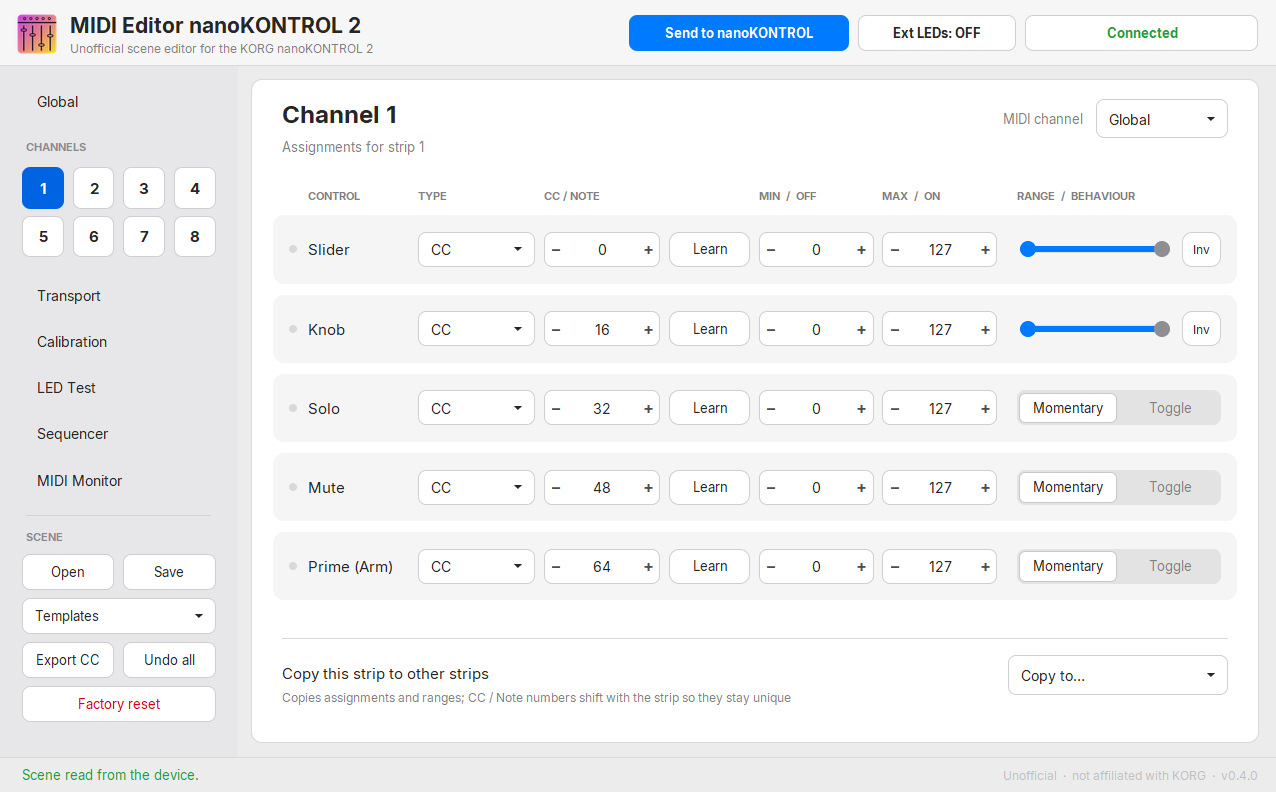
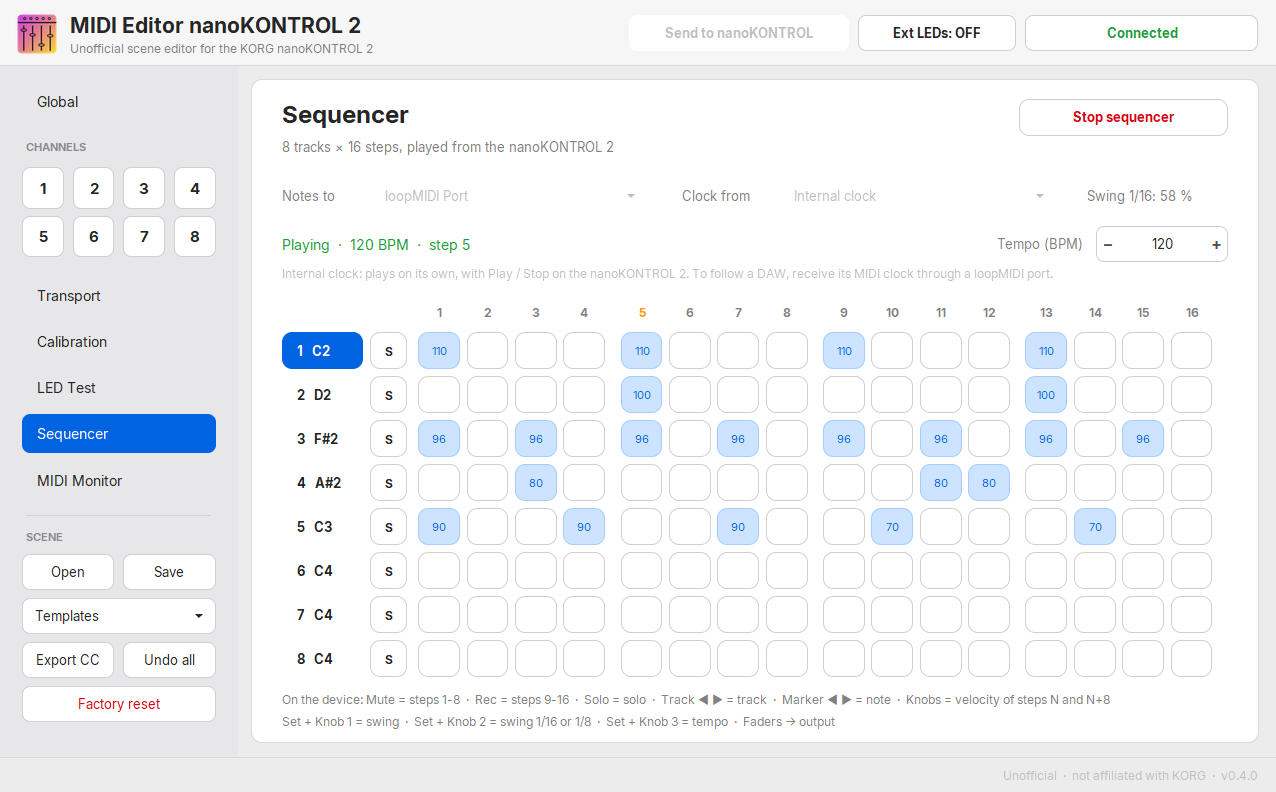
README screenshot: the sequencer

diff --git a/README.md b/README.md
@@ -3,7 +3,7 @@
 Unofficial scene editor for the KORG nanoKONTROL 2 (Windows). Not affiliated with KORG.
 It talks to the controller over USB MIDI (SysEx) and needs no driver beyond the one Windows already uses.
 
-![Channel page](docs/screenshot.png)
+![Sequencer page](docs/screenshot.png)
 
 ## Features
 - Edit every assignment: type (CC / Note), number, min / max (or off / on) and behaviour, for 8 strips plus the transport section.
